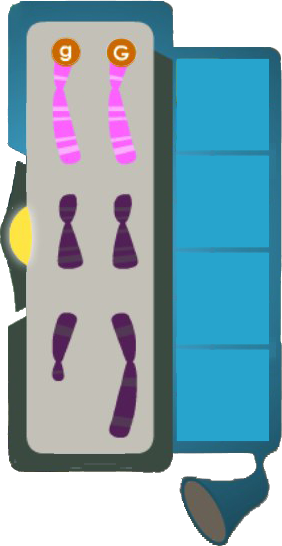
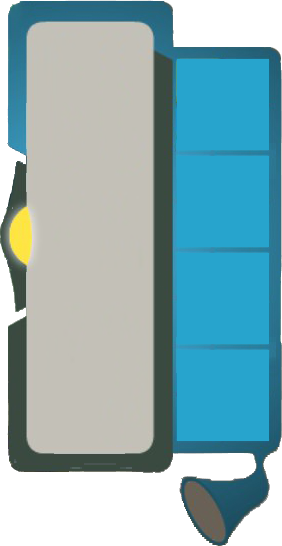
Add chromo panel view to parent panel when open

diff --git a/app/static/index.html b/app/static/index.html
@@ -13,6 +13,7 @@
 
   <link rel="stylesheet" href="css/ember-defaults.css">
   <link rel="stylesheet" href="css/game.css">
+  <link rel="stylesheet" href="css/chromosomes.css">
 
   <!--[if lt IE 9]>
   <script src="http://html5shiv.googlecode.com/svn/trunk/html5.js"></script>
